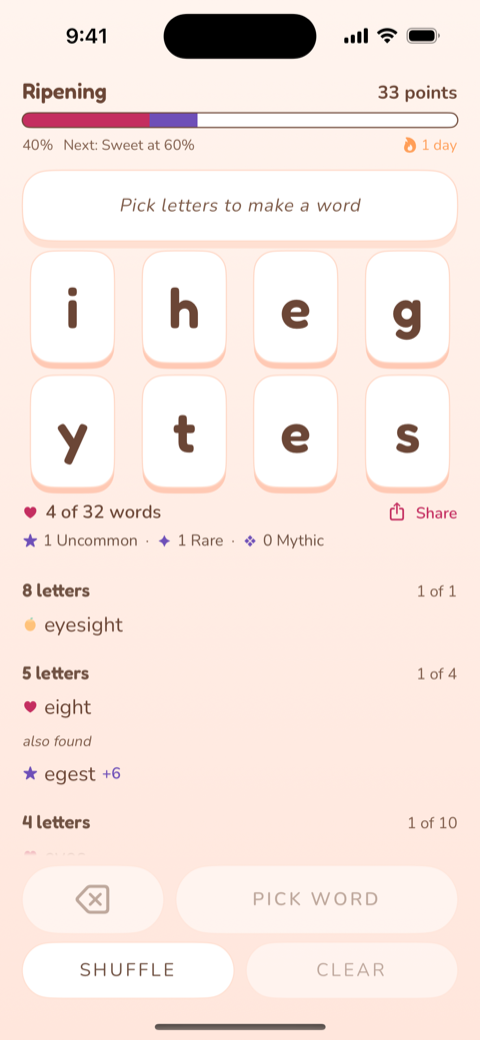
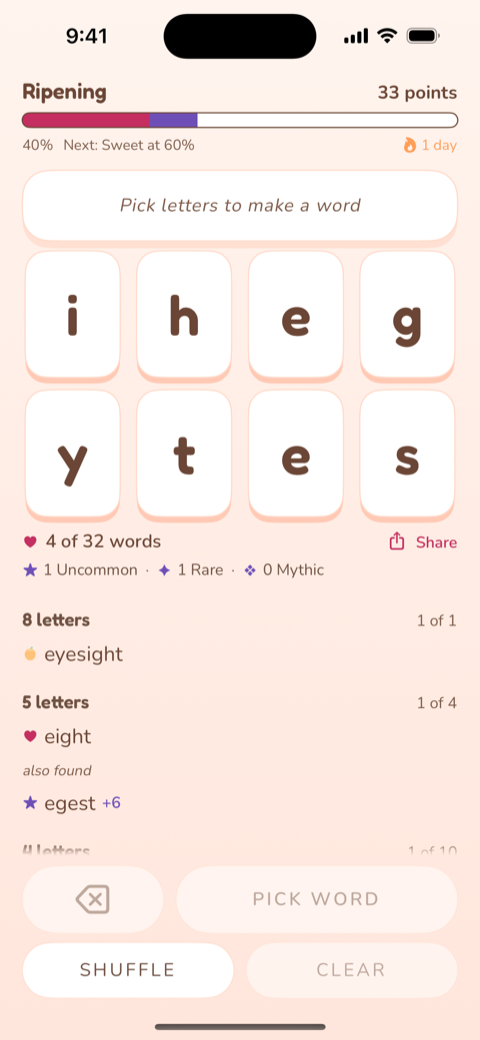
revert(layout): put the rack's height cap back to 104
The cap constrains HEIGHT, and the column stays 81.75pt wide whatever the
tile does. So a 92pt cap draws a 69x92 tile in an 81.75pt column and the
leftover 13pt per column becomes gap. On the phone the rack stops reading
as a grid of tiles and starts reading as tiles floating in space.

This is the same mechanism the 118-to-104 move already recorded, where a
14pt trim cost about 4pt of width and was called a visible change nobody
asked for. At 24pt it is three times that, which is where it crosses from
unnoticed to wrong. The discovery report predicted it and said to take the
cap third for exactly this reason; taking it third is what made it cheap to
put back.

It is also the weakest lever of the three on its own terms. It returns 24pt
at default size, 11 at XXL and 2 at XXXL, because @ScaledMetric grows the
cap out of biting range while the tile's natural 3:4 height, fixed by a
column width that does not scale, stays put. Points where the screen is
roomiest and nothing where it is tightest, which is the opposite of what a
density lever should do.

The finding is kept on maxTileHeight even though the constant is unchanged.
It is true, it is not obvious, and the next person pricing that lever should
meet it before spending time on it rather than after.

    iPhone 13, found list height

                    L        XL       XXL      XXXL
    before      161.33    123.67    103.33    fallback
    after       223.00    191.00    171.00    142.33
[…]

diff --git a/App/ContentView.swift b/App/ContentView.swift
@@ -30,11 +30,12 @@ struct ContentView: View {
     /// The argument was that the 40pt the SE got from the fixed layout "was
     /// never a list", so trading a real list for the touch-down commit on the
     /// one phone that could not show a list was the wrong way round. That was
-    /// correct about 40pt. After the chrome reclaim (the wordmark, the message
-    /// row and the rack cap, 85.67pt on a 390pt phone) the same phone measures
-    /// **131.5pt of list at default size**, which is more than the iPhone 13
-    /// had before that work. The premise changed, so the conclusion changed
-    /// with it, and the SE now takes the fixed layout at L, XL and XXL.
+    /// correct about 40pt. After the chrome reclaim (the wordmark and the
+    /// message row, 61.67pt on a 390pt phone) the same phone measures
+    /// **107.5pt of list at default size**, which is more than two and a half
+    /// times what the argument was written about. The premise changed, so the
+    /// conclusion changed with it, and the SE now takes the fixed layout at L,
+    /// XL and XXL.
     ///
     /// **The cost is the other half of the old argument, and it is real.** That
     /// phone no longer has one layout at every size: it switches regimes
@@ -47,7 +48,11 @@ struct ContentView: View {
     /// What has not changed is what the floor is for: it makes "fits" mean
     /// "fits with a list worth having" rather than "fits with the list crushed
     /// to nothing". On the SE at XXL that is doing visible work, holding the
-    /// list at 65.5pt against a floor of roughly 64.5.
+    /// list at 63.5pt, which is the tightest cell in the whole matrix and sits
+    /// essentially on the floor itself. That phone at that size is one small
+    /// regression away from falling back, which is the floor working rather
+    /// than a problem, but it is the cell to re-measure after any change to the
+    /// furniture above it.
     @ScaledMetric(relativeTo: .body) private var minimumListHeight: CGFloat = 52
     #if TAP_RECORDER
     @Environment(\.scenePhase) private var scenePhase
@@ -668,47 +673,48 @@ private struct TileButton: View {
     /// each tile demanded a width the container could not supply four of, and
     /// the rack broke to 3+3+2. That inversion is the thing not to reintroduce.
     ///
-    /// **Lowered from 118 to 104, and now to 92.** The rack is the tallest
-    /// furniture on a screen that has to hold everything at once, and this is
-    /// where the vertical points are. On a 390pt phone the fixed column gives
-    /// 81.75pt of width, so the tiles want to draw 109pt tall through the 3:4
-    /// ratio. At 104 they drew 78 x 104 and the rack was 218pt. At 92 they draw
-    /// 69 x 92 and the rack is 194, **giving the found list back 24pt** across
-    /// the two rows.
+    /// **Lowered from 118 to 104, which means it now bites at phone width.**
+    /// The rack was the tallest furniture on a screen that has to hold
+    /// everything at once, and this is where the vertical points are. On a 390pt
+    /// phone the column gives 81.75pt of width, so the tiles were drawing 109pt
+    /// tall; capped, they draw 104 and the rack gives back 10pt across its two
+    /// rows.
     ///
-    /// **The 44pt tap floor is nowhere near binding and was never the
-    /// constraint here.** A 69 x 92 tile is more than twice the minimum in both
-    /// directions, and `Cute.minTapTarget` is applied as a `minHeight`
-    /// underneath this cap, so it would engage long before anything reached 44.
-    /// The real cost is visual: the tile is 15 percent shorter than the ratio
-    /// wants at this column width, so it reads as a slightly squatter tile, and
-    /// `glyphSize` starts from a 46pt letter that now has 84pt of inner box
-    /// rather than 96. It still fits at default size without
-    /// `minimumScaleFactor` engaging, which is the thing that was checked
-    /// rather than assumed.
+    /// **92 was tried, measured, and reverted. Do not reach for it again
+    /// without reading this.** It returned 24pt at default size, and the
+    /// arithmetic is what makes it a trap: the cap constrains HEIGHT, and the
+    /// column stays 81.75pt wide whatever the tile does. So a 92pt cap draws a
+    /// 69 x 92 tile in an 81.75pt column and **the leftover 13pt per column
+    /// becomes gap**. On the phone the rack stops reading as a grid of tiles
+    /// and starts reading as tiles floating in space.
     ///
-    /// This was taken third, after the wordmark and the message row, precisely
-    /// because it is the only one of the three that costs something a player
-    /// can see. The other two returned 61.67pt at default by deleting things
-    /// that were not earning their space; this returns 24 by making the most
-    /// identifying object on the screen smaller.
+    /// This is the same mechanism the 118-to-104 move already flagged, where a
+    /// 14pt trim cost about 4pt of width and was recorded as a visible change
+    /// nobody asked for. At 24pt it is three times that, which is where it
+    /// crosses from unnoticed to wrong.
     ///
-    /// **This cap is a DEFAULT-SIZE lever only, and it does not look like one.**
-    /// Measured on a 390pt phone when it moved from 104 to 92: **24pt returned
-    /// at L, 11 at XXL, and 2 at XXXL.** The reason is `@ScaledMetric` on this
-    /// line. Dynamic Type grows the cap along with everything else, so it climbs
-    /// out of biting range while the tile's natural 3:4 height (fixed by the
-    /// column width, which does not scale) stays put. By XXXL the cap is above
-    /// the height the ratio asks for and clamps nothing at all: `RackShape`
-    /// prints a 107.67pt tile there against a 92pt constant.
+    /// **The 44pt tap floor was never the constraint** and is not what stops
+    /// this. A 69 x 92 tile is more than twice the minimum in both directions.
+    /// The constraint is that these are the most identifying objects on the
+    /// screen and the leftover width has nowhere to go.
+    ///
+    /// **This cap is also a DEFAULT-SIZE lever only, and it does not look like
+    /// one.** Measured on a 390pt phone across the 104-to-92 experiment: **24pt
+    /// returned at L, 11 at XXL, and 2 at XXXL.** The reason is `@ScaledMetric`
+    /// on this line. Dynamic Type grows the cap along with everything else, so
+    /// it climbs out of biting range while the tile's natural 3:4 height (fixed
+    /// by the column width, which does not scale) stays put. By XXXL the cap is
+    /// above the height the ratio asks for and clamps nothing at all: at 92,
+    /// `RackShape` still printed a 107.67pt tile there.
     ///
     /// So anyone pricing a further trim should expect it to buy points at
     /// default size and almost nothing at the sizes where the screen is
-    /// tightest, which is the opposite of the intuition. If large text ever
-    /// needs the room, the lever is not this number: it is either dropping
-    /// `relativeTo:` so the cap stops scaling, which would pin tile size against
-    /// Dynamic Type and is its own argument, or taking the points somewhere
-    /// else entirely.
+    /// tightest, which is the opposite of the intuition, and to pay for them in
+    /// column gap. Both halves point the same way: this is the weakest of the
+    /// levers on this screen. If large text ever needs the room, it is not this
+    /// number. It is either dropping `relativeTo:` so the cap stops scaling,
+    /// which would pin tile size against Dynamic Type and is its own argument,
+    /// or taking the points somewhere else entirely.
     ///
     /// **It is still a cap on HEIGHT, which is why it is the safe lever.** The
     /// tile shrinks inside a column it never asked to widen, so it cannot demand
@@ -720,7 +726,7 @@ private struct TileButton: View {
     ///
     /// Still scaled, so Dynamic Type still grows the tiles rather than pinning
     /// them at a constant the moment the text gets bigger.
-    @ScaledMetric(relativeTo: .largeTitle) private var maxTileHeight: CGFloat = 92
+    @ScaledMetric(relativeTo: .largeTitle) private var maxTileHeight: CGFloat = 104
 
     private var face: some View {
         ZStack {
@@ -965,4 +971,5 @@ extension GameStorage {
         #endif
     }
 }
+
 

diff --git a/docs/REPORT.md b/docs/REPORT.md
@@ -1711,14 +1711,18 @@ taken.
 > `RackScrollTests`, which measured why. That is input latency, not a squeezed
 > list, and it needed a different fix.
 >
-> **It got one.** The chrome reclaim (the wordmark, the message row into the
-> compose well, and the rack cap from 104 to 92) returned 85.67pt at default
-> size on a 390pt phone, and that is enough for the fixed layout to fit at XXXL
-> again: `LayoutBudget`'s sweep now reports FIXED at L, XL, XXL **and XXXL** on
-> an 844pt phone, where XXXL was fallback before. So the rack comes back out of
-> the scroll view at that size and the touch-down commit is restored with it.
-> Accessibility sizes remain the scrolling fallback, which is unchanged and
-> still correct.
+> **It got one.** The chrome reclaim (the wordmark, and the message row into
+> the compose well) returned 61.67pt at default size on a 390pt phone, and that
+> is enough for the fixed layout to fit at XXXL again: `LayoutBudget`'s sweep
+> now reports FIXED at L, XL, XXL **and XXXL** on an 844pt phone, where XXXL was
+> fallback before. So the rack comes back out of the scroll view at that size
+> and the touch-down commit is restored with it. Accessibility sizes remain the
+> scrolling fallback, which is unchanged and still correct.
+>
+> A third lever, lowering the rack's height cap from 104 to 92, was measured and
+> reverted. It is not what fixed this: XXXL was already back on the fixed layout
+> after the wordmark alone, and the cap returned 2pt at that size. See
+> `maxTileHeight` for why it was dropped.
 >
 > **The lesson worth keeping is about the record, not the layout.** This
 > item asserted a mechanism ("the fallback triggers only at accessibility sizes,
